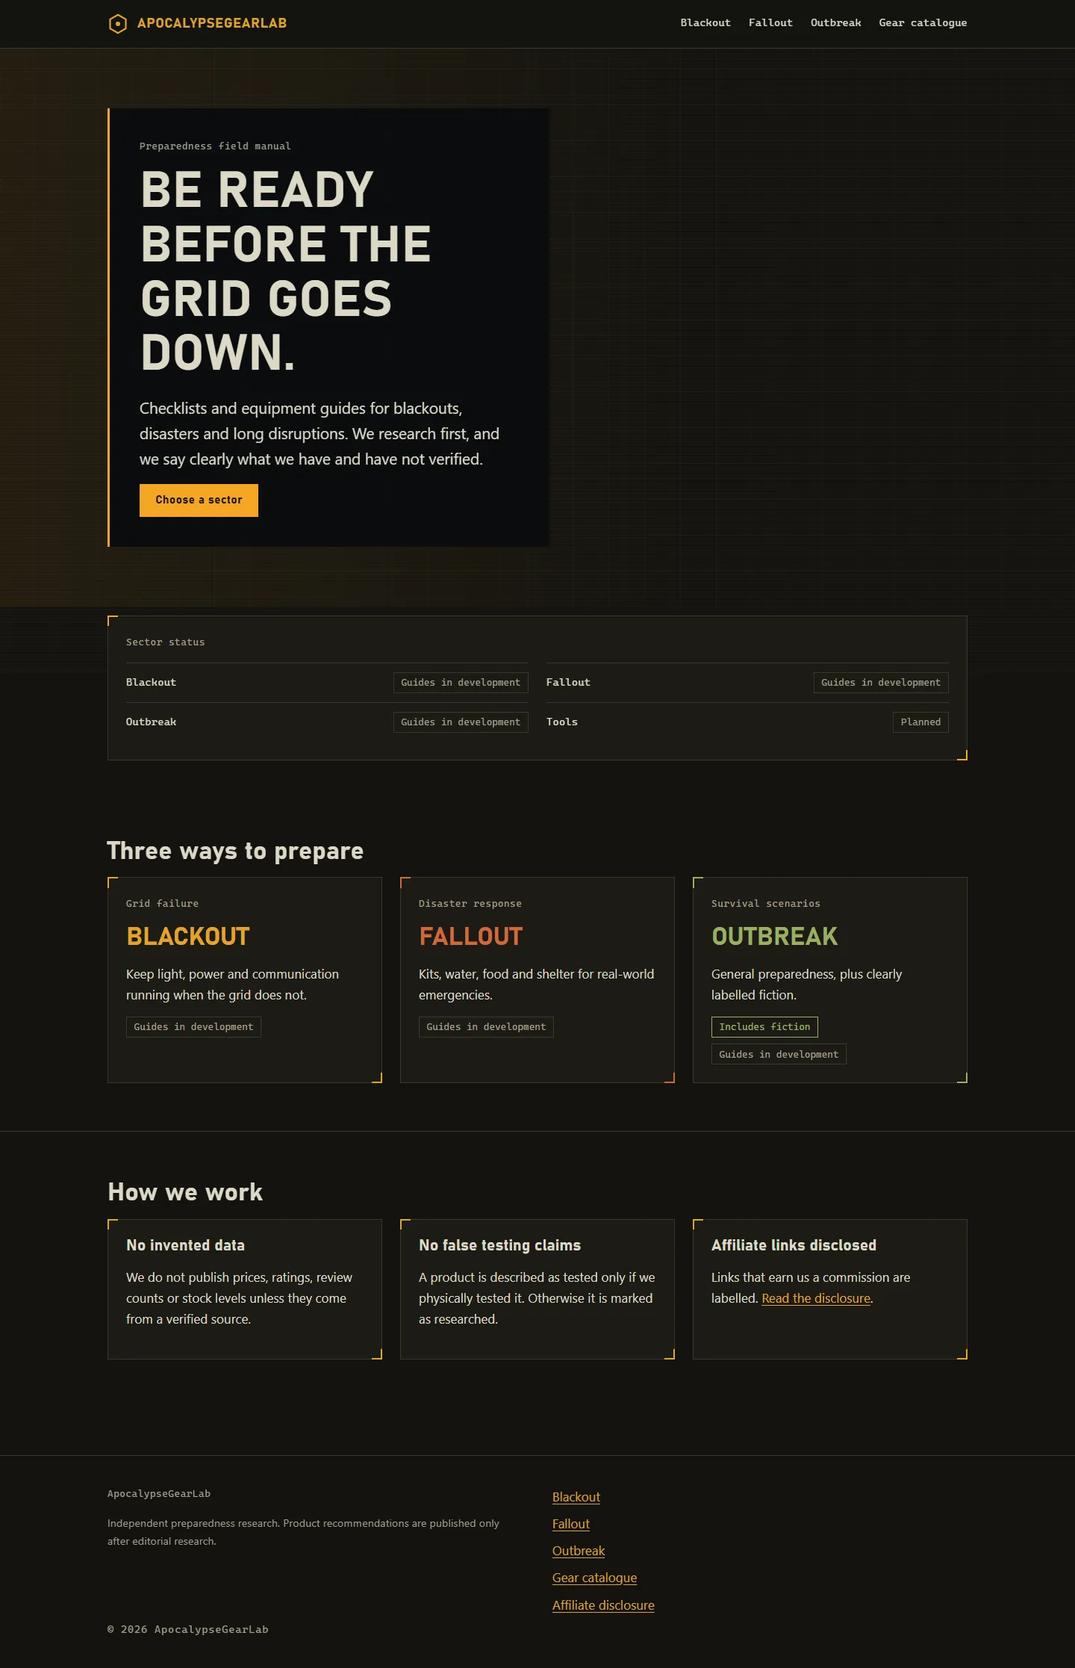
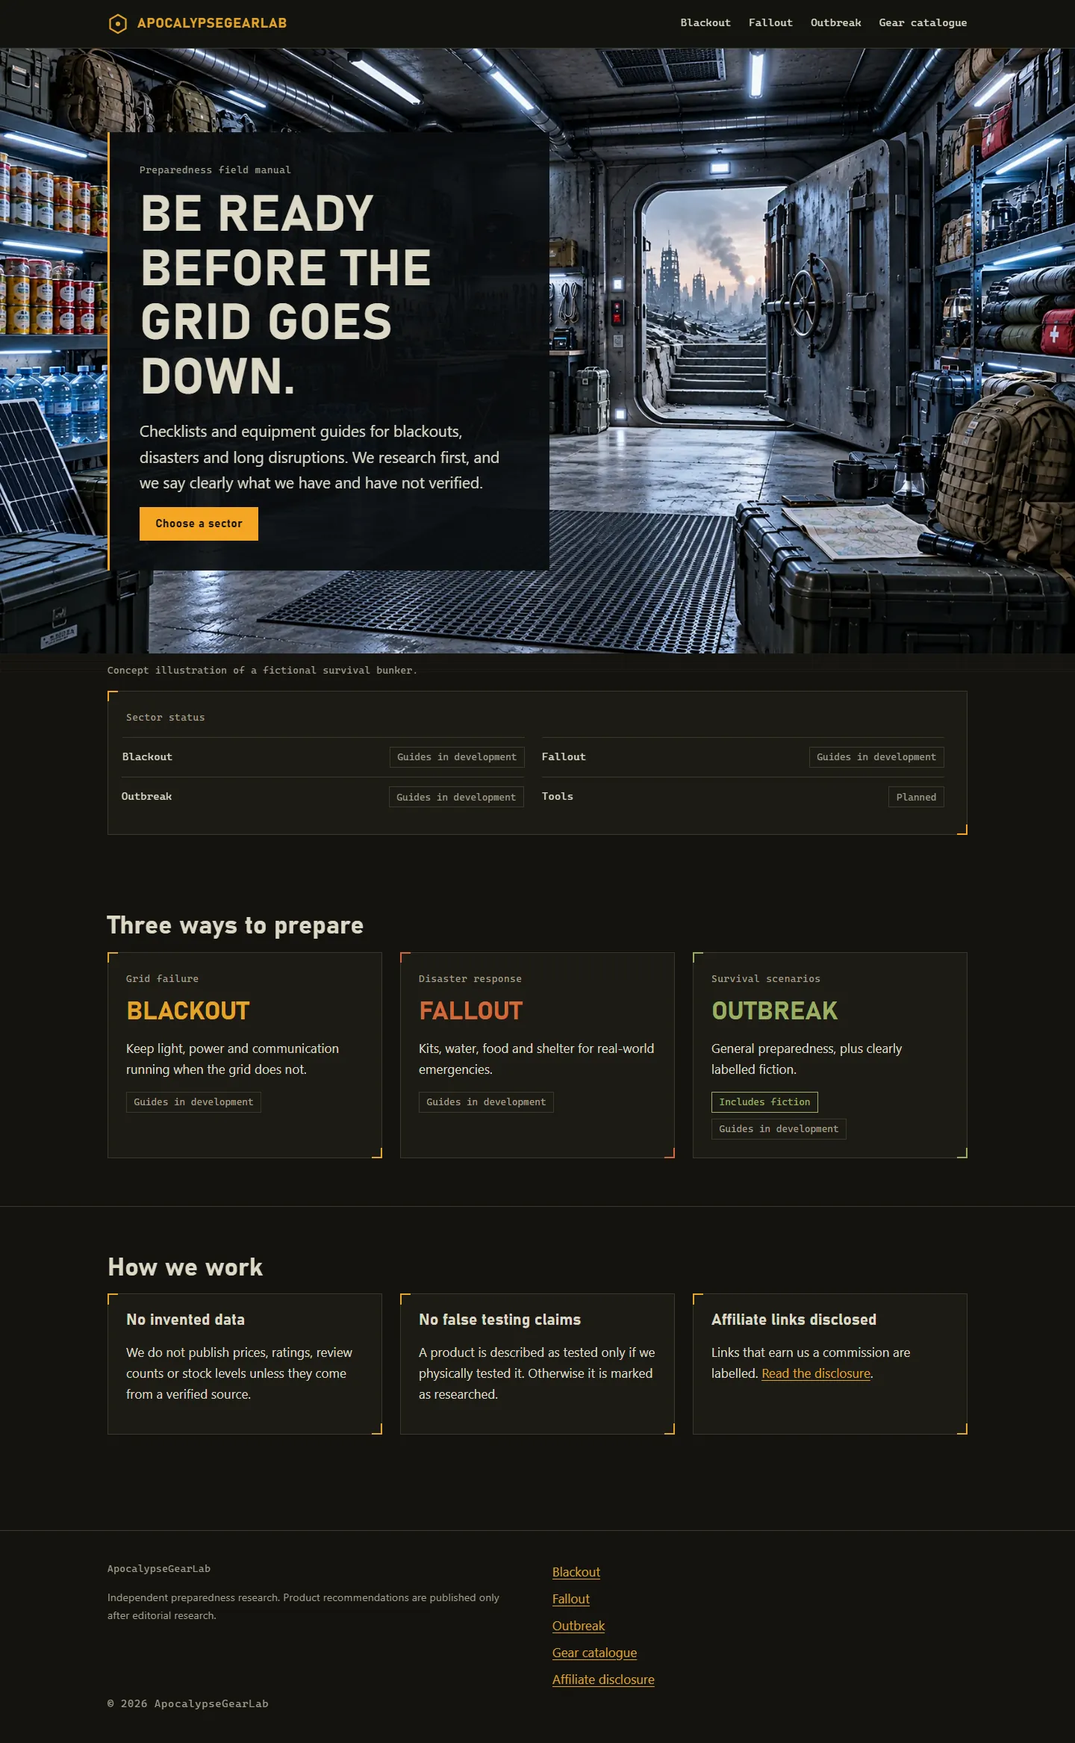
fix(media): restore owner-authorized bunker without clearing product safeguards

diff --git a/tests/browser/release.spec.ts b/tests/browser/release.spec.ts
@@ -6,13 +6,14 @@ const candidates = ['ecoflow-river-2-pro', 'fenix-cl26r-pro', 'jackery-explorer-
 const held = ['kidde-c3010-co-alarm', 'iniu-p62-20000mah-65w', 'jackery-explorer-300'];
 const widths = [320, 375, 768, 1024, 1440, 1920];
 
-test('production excludes unapproved artwork, preview mode and affiliate activation', async ({ page, request }) => {
+test('production restores the authorized bunker while excluding product artwork, previews and affiliate activation', async ({ page, request, browser }) => {
   await page.goto('/');
-  await expect(page.locator('.hero-image')).toHaveCount(0);
-  await expect(page.locator('.hero-scene--neutral')).toBeVisible();
+  await expect(page.locator('.hero-image')).toBeVisible();
+  await page.locator('.hero-image').evaluate((img: HTMLImageElement) => img.decode());
+  await expect(page.locator('.hero-scene--neutral')).toHaveCount(0);
   const manifest = JSON.parse(readFileSync('src/data/media/manifest.json', 'utf8'));
   for (const asset of manifest.assets) for (const variant of asset.variants) {
-    if (variant.src) expect((await request.get(variant.src)).status()).toBe(404);
+    if (variant.src) expect((await request.get(variant.src)).status()).toBe(asset.id === 'hero' ? 200 : 404);
   }
   for (const slug of [...candidates, ...held]) {
     expect((await request.get(`/gear/${slug}/?view=release`)).status()).toBe(404);
@@ -25,9 +26,14 @@ test('production excludes unapproved artwork, preview mode and affiliate activat
   expect(await page.locator('body').innerText()).not.toMatch(/ChatGPT|Codex|AI-assisted|generated by AI/i);
   mkdirSync('.tools/qa/phase-3-5', { recursive: true });
   for (const width of [375, 1440]) {
-    await page.setViewportSize({ width, height: 900 });
-    await page.goto('/');
-    await page.screenshot({ path: `.tools/qa/phase-3-5/home-public-${width}.png`, fullPage: true, animations: 'disabled' });
+    // Capture a fresh visit at each viewport, independent of prior navigation.
+    const capture = await browser.newPage({ viewport: { width, height: 900 } });
+    await capture.goto('http://127.0.0.1:4321/');
+    await expect(capture.locator('.hero-image')).toBeInViewport();
+    // decoding="async" can finish after load; inspect pixels only after decode.
+    await capture.locator('.hero-image').evaluate((img: HTMLImageElement) => img.decode());
+    await capture.screenshot({ path: `.tools/qa/phase-3-5/home-public-${width}.png`, fullPage: true });
+    await capture.close();
   }
 });
 

diff --git a/tests/browser/media.spec.ts b/tests/browser/media.spec.ts
@@ -17,12 +17,13 @@ test('hero reserves space, selects responsive sources and supports reduced motio
     await route.continue();
   });
   await page.setViewportSize({ width: 375, height: 900 });
-  await page.goto('http://127.0.0.1:4322/');
+  await page.goto('/');
   const hero = page.locator('.hero-image');
   await expect(hero).toHaveAttribute('fetchpriority', 'high');
   await expect(hero).toHaveAttribute('loading', 'eager');
   await expect(hero).toHaveAttribute('alt', /Concept illustration.*underground survival bunker/);
   await hero.evaluate((img: HTMLImageElement) => img.decode());
+  expect(await hero.evaluate((img: HTMLImageElement) => img.currentSrc)).toMatch(/hero-768\.webp$/);
   expect(requests.filter((src) => src.includes('survival-bunker-hero'))).toHaveLength(1);
   expect(await page.evaluate(() => (window as any).imageLayoutShifts)).toBeLessThan(0.01);
   const observations = [];
@@ -37,6 +38,13 @@ test('hero reserves space, selects responsive sources and supports reduced motio
     expect(observation.width / observation.height).toBeCloseTo(1672 / 941, 2);
     expect(observation.fit).toBe('contain');
     expect(await page.evaluate(() => document.documentElement.scrollWidth <= innerWidth)).toBe(true);
+    await expect(page.locator('h1')).toBeVisible();
+    await expect(page.getByRole('link', { name: 'Choose a sector' })).toBeVisible();
+    if (width < 960) {
+      const imageBox = await hero.boundingBox();
+      const textBox = await page.locator('.hero-copy-panel').boundingBox();
+      expect(textBox!.y).toBeGreaterThanOrEqual(imageBox!.y + imageBox!.height);
+    }
     observations.push(observation);
     await page.screenshot({ path: `.tools/qa/phase-3/home-${width}.png`, fullPage: true });
   }

diff --git a/tests/media-policy.test.ts b/tests/media-policy.test.ts
@@ -8,9 +8,12 @@ test('rejected Explorer 300 artwork cannot render in development or production',
   assert.equal(canDisplayProductArtwork('jackery-explorer-300', false), false);
 });
 
-test('unconfirmed reference-photo rights also block the production hero', () => {
-  assert.equal(canDisplayHeroArtwork(false), false);
+test('owner confirmation permits the public bunker without authorizing product artwork', () => {
+  assert.equal(canDisplayHeroArtwork(false), true);
   assert.equal(canDisplayHeroArtwork(true), true);
+  for (const slug of ['fenix-cl26r-pro', 'jackery-explorer-1000-v2', 'midland-er310']) {
+    assert.equal(canDisplayProductArtwork(slug, false), false);
+  }
 });
 test('reference review allows editorial previews without granting commercial permissions', () => {
   for (const slug of ['fenix-cl26r-pro', 'jackery-explorer-1000-v2']) {

diff --git a/src/lib/media-policy.ts b/src/lib/media-policy.ts
@@ -12,5 +12,7 @@ export function canDisplayProductArtwork(slug: string, development: boolean): bo
 }
 
 export function canDisplayHeroArtwork(development: boolean): boolean {
-  return development || review.rightsStatus === 'confirmed-by-owner';
+  // The owner's bunker confirmation is asset-specific, independent of the
+  // still-pending rights to product illustrations and their reference photos.
+  return development || review.assets.hero.rightsStatus === 'confirmed-by-owner';
 }

diff --git a/docs/phase-3-5-release-report.md b/docs/phase-3-5-release-report.md
@@ -1,5 +1,7 @@
 # ApocalypseGearLab — Phase 3.5 : catalogue et préparation de publication
 
+**Correction de la PR nº 5 :** bunker restauré dans le build public après confirmation du propriétaire, limitée à cette image. Voir le [rapport de correction](pr-5-bunker-correction.md). Verdict : **MERGE pour le site protégé**, sans publication de produits ni activation Amazon.
+
 Rapport du **25 octobre 2026**. Branche : `feat/phase3-5-safe-blackout-catalogue`, créée depuis le dernier main `8b0a722c70ed4ef15dd1f8e7ec0744d5d3412ef0`. La [PR #4](https://github.com/ApocalypseGearLab/apocalypsegearlab.github.io/pull/4) était déjà fusionnée. État initial propre ; aucune modification de main, fusion ou publication effectuée.
 
 ## 1. Admissibilité réelle
@@ -51,11 +53,11 @@ Fichiers principaux : `src/lib/release-policy.ts`, `products.ts`, `product-schem
 
 ## 3. Illustrations et droits
 
-Les droits commerciaux et les permissions des photographies de référence restent **en attente de confirmation du propriétaire**. La génération d'une illustration n'établit pas les droits sur ces références. Le dépôt public n'est pas un stockage confidentiel.
+Les droits commerciaux et les permissions des photographies de référence des **illustrations produits** restent **en attente de confirmation du propriétaire**. La génération d'une illustration n'établit pas les droits sur ces références. Le dépôt public n'est pas un stockage confidentiel.
 
 Les **19 fichiers WebP sont inchangés octet pour octet**, dont les deux Explorer 300 déjà rejetés et conservés hors de public. Les 17 autres fichiers restent disponibles comme sources de revue, sans recompression. Le build retire seulement leurs copies générées non autorisées de dist ; aucun original ou fichier de travail n'est supprimé. Le test confirme **0 illustration non autorisée livrée**, y compris pour un accès direct à son ancien chemin.
 
-Cette protection s'applique aussi au bunker : il reste visible en développement pour revue, mais l'accueil de production utilise une grille neutre tant que les droits ne sont pas confirmés. Les variantes 768/1280/1672, leurs dimensions et leur priorité sont préservées pour une future utilisation autorisée. Aucun droit n'a été déclaré acquis.
+Le propriétaire confirme que le bunker a été créé pour ApocalypseGearLab sans reproduction d'une photographie appartenant à un tiers, et demande sa restauration publique. Cette autorisation est enregistrée uniquement pour hero dans review.json ; le manifeste et le pipeline la conservent. Les variantes 768/1280/1672 sont livrées publiquement avec leurs dimensions, srcset et priorité d'origine. Les illustrations produits non autorisées restent exclues de dist.
 
 ## 4. Affiliation
 
@@ -65,20 +67,20 @@ Cette protection s'applique aussi au bunker : il reste visible en développement
 
 Titles, H1 uniques, descriptions adaptées, canoniques et données de fil d'Ariane sont conservés. Les brouillons n'émettent aucun Product/Offer/Review ; un produit réellement validé conserve son JSON-LD d'identité sans prix ou avis inventés. Les essais avec trois fixtures synthétiques publiées vérifient la construction des fiches, le catalogue, les liens de secteur, le sitemap et les visuels neutres ; ces fixtures sont retirées dans finally et ne font jamais partie de la livraison réelle.
 
-Livrable réel : **7 pages HTML, 5 URL de sitemap, 116 références internes vérifiées**, catalogue vide noindex et huit fiches réelles toujours exclues. Les paramètres d'URL ne peuvent pas contourner ces filtres. Aucun produit FALLOUT de phase 4 ajouté.
+Livrable réel : **7 pages HTML, 5 URL de sitemap, 117 références internes vérifiées**, catalogue vide noindex et huit fiches réelles toujours exclues. Les paramètres d'URL ne peuvent pas contourner ces filtres. Aucun produit FALLOUT de phase 4 ajouté.
 
 Chromium et axe : **320, 375, 768, 1024, 1440 et 1920 px**. Contrôles du débordement, des proportions, des textes alternatifs, des contrastes WCAG 2 A/AA et 2.1 AA, du clavier, du menu, du lien d'évitement et du mouvement réduit. Les vues réelles de l'accueil, du catalogue et d'une fiche ont été inspectées sur captures. Les styles tactiques, les cadres complets des illustrations de revue et la transparence utile sont préservés.
 
 ## 6. Performance mesurée
 
-Lighthouse **13.5.0**, Chromium 156 headless, Windows, Node 22.23.4, serveur Astro de production sur loopback. Une mesure froide mobile et une ordinateur ; mesures de laboratoire, pas de données de terrain. La mesure porte sur l'accueil neutre réellement livrable, pas sur un catalogue fictivement publié. [Réglages et résultats exacts](qa/phase-3-5/performance.json).
+Lighthouse **13.5.0**, Chromium 156 headless, Windows, Node 22.23.4, serveur Astro de production sur loopback. Une mesure froide mobile et une ordinateur ; mesures de laboratoire, pas de données de terrain. La nouvelle mesure porte sur l'accueil avec bunker autorisé, pas sur un catalogue fictivement publié. [Réglages et résultats exacts](qa/phase-3-5/performance.json).
 
 | Profil | Performance | Accessibilité | Bonnes pratiques | SEO | LCP | CLS | Octets réseau |
 |---|---|---|---|---|---|---|---|
-| mobile | 100 | 100 | 100 | 100 | 920 ms | 0 | 6 426 octets |
-| desktop | 100 | 100 | 100 | 100 | 245 ms | 0 | 6 426 octets |
+| mobile | 100 | 100 | 100 | 100 | 1 514 ms | 0 | 115 184 octets |
+| desktop | 100 | 100 | 100 | 100 | 569 ms | 0 | 380 968 octets |
 
-Les caractéristiques WebP responsives sont testées dans la revue locale ; la production ne télécharge pas d'illustration non autorisée. Aucune mesure de cache GitHub Pages ou de Core Web Vitals de visiteurs n'est inventée.
+Les caractéristiques WebP responsives du bunker sont testées dans le build public et celles des produits dans la revue locale ; la production ne télécharge pas d'illustration non autorisée. Aucune mesure de cache GitHub Pages ou de Core Web Vitals de visiteurs n'est inventée.
 
 ## 7. Tests réellement exécutés
 
@@ -89,7 +91,7 @@ Les caractéristiques WebP responsives sont testées dans la revue locale ; la p
 | npm run test:images | 9 correspondances sources, 19 WebP décodés et empreintes/dimensions/permissions vérifiées |
 | npm run test:products | 3 fixtures publiées validées puis retirées ; build réel restauré |
 | npm run build | Réussite ; 7 pages réelles |
-| npm run test:site | 116 références, sitemap, robots, srcsets, absence de médias non autorisés et filtrage des brouillons validés |
+| npm run test:site | 117 références, sitemap, robots, srcsets, absence de médias non autorisés et filtrage des brouillons validés |
 | npm run test:browser | 30/30 réussis, dont 7 tests de préparation de publication |
 | npm run release:check | 0 admissible, 3 blocages obligatoires : diagnostic attendu |
 | npm run release:check -- --require-ready | Refus attendu, code 1 ; preuve qu'aucune publication n'est autorisée par défaut |
@@ -102,7 +104,7 @@ Les premiers essais ont détecté un problème de vue par paramètre sur les pag
 
 | Page | Mobile 375 px | Ordinateur 1440 px |
 |---|---|---|
-| Accueil public neutre | [Capture](qa/phase-3-5/home-public-375.webp) | [Capture](qa/phase-3-5/home-public-1440.webp) |
+| Accueil public avec bunker | [Capture](qa/phase-3-5/home-public-375.webp) | [Capture](qa/phase-3-5/home-public-1440.webp) |
 | Catalogue des cinq candidats, local uniquement | [Capture](qa/phase-3-5/catalogue-preview-375.webp) | [Capture](qa/phase-3-5/catalogue-preview-1440.webp) |
 | Fiche Explorer 1000 v2, local uniquement | [Capture](qa/phase-3-5/profile-preview-375.webp) | [Capture](qa/phase-3-5/profile-preview-1440.webp) |
 
@@ -112,4 +114,4 @@ La nouvelle PR vers main et ses résultats GitHub Actions sont fournis dans le m
 
 ## 9. Verdict — CORRECT avant publication des produits
 
-La préparation concrète des cinq candidats, des rendus neutres et des contrôles est livrée pour revue. **CORRECT** reste le verdict de publication : la vérification actuelle des annonces/modèles canadiens et les validations de sécurité/éditoriales requises ne sont pas acquises. Kidde/INIU/Explorer 300 restent expressément bloqués. L'inscription Associates et les droits des illustrations n'ont pas été confirmés. Ces points demandent des preuves réelles, pas une bascule de drapeaux. La PR ne prétend donc pas contenir cinq produits déjà publiables et ne contourne aucune protection pour remplir le catalogue.
+La préparation concrète des cinq candidats, des rendus neutres et des contrôles est livrée pour revue. **CORRECT** reste le verdict de publication : la vérification actuelle des annonces/modèles canadiens et les validations de sécurité/éditoriales requises ne sont pas acquises. Kidde/INIU/Explorer 300 restent expressément bloqués. L'inscription Associates et les droits des illustrations produits n'ont pas été confirmés. Le bunker bénéficie désormais de sa propre confirmation de provenance et de restauration publique. Ces points demandent des preuves réelles, pas une bascule de drapeaux. La PR ne prétend donc pas contenir cinq produits déjà publiables et ne contourne aucune protection pour remplir le catalogue.

diff --git a/docs/pr-5-bunker-correction.md b/docs/pr-5-bunker-correction.md
@@ -1,0 +1,72 @@
+# PR nº 5 — restauration du bunker public
+
+Correction du 25 octobre 2026 sur `feat/phase3-5-safe-blackout-catalogue`, après le commit `cb5e5726ceeae5bc37a1d813ae2f545b270dc8c4`. [PR existante nº 5](https://github.com/ApocalypseGearLab/apocalypsegearlab.github.io/pull/5) ; aucune autre PR, fusion ou mise en production.
+
+## Correction et provenance
+
+Le contrôle ajouté en Phase 3.5 utilisait l'attente générale des droits produits pour retirer aussi le bunker de `dist`. L'accueil public affichait alors une grille neutre. Le propriétaire confirme explicitement que **l'illustration du bunker a été créée pour ApocalypseGearLab sans reproduction d'une photographie appartenant à un tiers**, et demande sa restauration publique.
+
+Cette déclaration est enregistrée dans `src/data/media/review.json`, sous `assets.hero`, avec sa date, son origine et sa portée. Il s'agit d'une confirmation du propriétaire, pas d'une expertise juridique indépendante. L'autorisation porte uniquement sur cette illustration et ses trois variantes existantes. Le statut général des illustrations produits reste `pending-owner-confirmation`.
+
+La politique de rendu et le contrôle de livraison Astro prennent maintenant cette décision séparément pour le bunker. Le manifeste enregistre sa confirmation, et le générateur préserve ce statut lors d'une future optimisation. Aucun élément de l'accueil ni style cinématique n'a eu besoin d'être recréé : les dimensions intrinsèques, le `srcset`, `sizes="100vw"`, la priorité élevée, le chargement immédiat, le ratio et `object-fit: contain` sont conservés. La légende indique toujours une illustration de bunker fictif, sans la présenter comme une photographie de lieu réel.
+
+## WebP, rendu et performance
+
+Les **19 WebP d'origine sont identiques octet pour octet** à main. Aucune image de livraison n'a été régénérée ou recompressée. Le build public livre seulement les trois variantes autorisées du bunker ; les 14 variantes produits précédemment disponibles sous `public/images` restent exclues de `dist`. Les deux variantes Explorer 300 restent archivées hors de public.
+
+| Variante bunker | Dimensions | Octets |
+|---|---|---|
+| mobile | 768 × 432 | 108 300 |
+| intermédiaire | 1280 × 720 | 255 560 |
+| grande | 1672 × 941 | 374 084 |
+
+Le navigateur choisit 768, 1280 ou 1672 selon la largeur. Le cadrage complet est conservé ; le titre et le CTA sont lisibles dans le panneau sombre sur ordinateur, puis sous l'image sur mobile. Captures réelles inspectées : [mobile 375 px](qa/phase-3-5/home-public-375.webp), [ordinateur 1440 px](qa/phase-3-5/home-public-1440.webp). La capture attend le décodage du WebP et utilise une visite neuve par largeur afin d'éviter des artefacts de peinture liés à une navigation précédente.
+
+Lighthouse 13.5.0, Chromium 156 headless, Node 22.23.4, Windows, serveur Astro de production local : une mesure froide par profil, sans avertissement. [Réglages et mesures](qa/phase-3-5/performance.json).
+
+| Profil | Performance | Accessibilité | Bonnes pratiques | SEO | LCP | CLS | Octets réseau |
+|---|---|---|---|---|---|---|---|
+| mobile | 100 | 100 | 100 | 100 | 1 514 ms | 0 | 115 184 |
+| ordinateur | 100 | 100 | 100 | 100 | 569 ms | 0 | 380 968 |
+
+Ces mesures remplacent celles de l'accueil neutre ; elles ne constituent pas des Core Web Vitals de visiteurs ni une mesure du cache GitHub Pages.
+
+## Protections préservées
+
+- Huit produits toujours en brouillon, aucun produit réel admissible actuellement, trois blocages obligatoires inchangés : Kidde C3010, INIU P62, Explorer 300.
+- ASIN, preuves fabricant, caractéristiques, états de sécurité et approbations éditoriales inchangés.
+- Autorisation du bunker sans propagation aux illustrations produits, y compris Fenix et Explorer 1000 v2.
+- `AMAZON_ASSOCIATE_ENROLLED=false`, tag `apocalypsegear-20` conservé ; aucun lien Amazon activé.
+- Routes locales de revue exclues du build, catalogue public vide/noindex, aucun ajout FALLOUT de Phase 4.
+- Workflow de déploiement manuel inchangé ; aucune action de déploiement exécutée.
+
+Le propriétaire confirme également n'avoir aucune preuve supplémentaire pour lever les réserves sur les produits et une inscription Associates non confirmée/en attente. Ces réponses n'autorisent aucune activation commerciale.
+
+## Validation exécutée
+
+| Commande / contrôle | Résultat |
+|---|---|
+| `npm run check` | 49 fichiers, 0 erreur, avertissement ou hint |
+| `npm test` | 21/21 ; confirmation du bunker et absence d'autorisation produits vérifiées |
+| `npm run test:images` | 9 sources, 19 WebP décodés ; dimensions, empreintes, métadonnées et droits vérifiés |
+| `npm run test:products` | 3 fixtures synthétiques validées puis retirées ; build réel restauré |
+| `npm run build` | Réussite, 7 pages HTML réelles |
+| `npm run test:site` | 117 références internes, 5 URL sitemap, robots, canoniques, JSON-LD, srcsets, livraison autorisée et filtrage des brouillons validés |
+| `npm run test:browser` | 30/30 ; test ciblé de l'accueil relancé après correction des captures |
+| Responsive / accessibilité | Chromium à 320/375/768/1024/1440/1920 px, axe WCAG 2 A/AA et 2.1 AA sans violation détectée ; clavier, menu, lien d'évitement, sans JavaScript, mouvement réduit, absence de débordement |
+| Médias publics | Trois URL bunker répondent 200 ; URL des illustrations produits non autorisées répondent 404 |
+| Contrôles de conservation | Huit dossiers protégés comparés à main ; 19 empreintes WebP inchangées |
+| Contrôle strict de publication | 0 admissible et 3 blocages ; `--require-ready` refuse comme attendu avec code 1 |
+
+Le premier lancement isolé des tests unitaires a été empêché par `spawn EPERM` dans le bac à sable Windows ; ils ont ensuite été exécutés avec succès avec les permissions de processus nécessaires. Le serveur local de mesure a été arrêté. Safari, Firefox, appareils physiques et audit WCAG manuel exhaustif non effectués.
+
+## Fichiers modifiés par cette correction
+
+- `src/data/media/review.json`, `manifest.json`, `src/lib/media-policy.ts` : confirmation du bunker et politique indépendante.
+- `astro.config.mjs`, `scripts/optimize-images.mjs` : livraison et conservation de l'autorisation spécifique.
+- `scripts/verify-images.mjs`, `verify-site.mjs`, `tests/media-policy.test.ts`, `tests/browser/media.spec.ts`, `release.spec.ts` : contrôles adaptés au bunker public et aux produits toujours bloqués.
+- Ce rapport, `docs/phase-3-5-release-report.md`, `docs/qa/phase-3-5/performance.json` et les deux captures d'accueil : documentation et preuves actualisées.
+
+## Verdict : MERGE
+
+**MERGE pour la PR nº 5 comme préparation protégée et restauration du bunker autorisé.** Aucun défaut bloquant identifié sur cette correction. Ce verdict ne rend aucun produit admissible et n'autorise aucune activation Amazon. La publication commerciale du catalogue nécessite encore les preuves de modèle/annonce, sécurité, approbation éditoriale et droits produits décrites dans le rapport Phase 3.5. La PR reste à la revue du propriétaire, sans fusion ni déploiement automatique.
